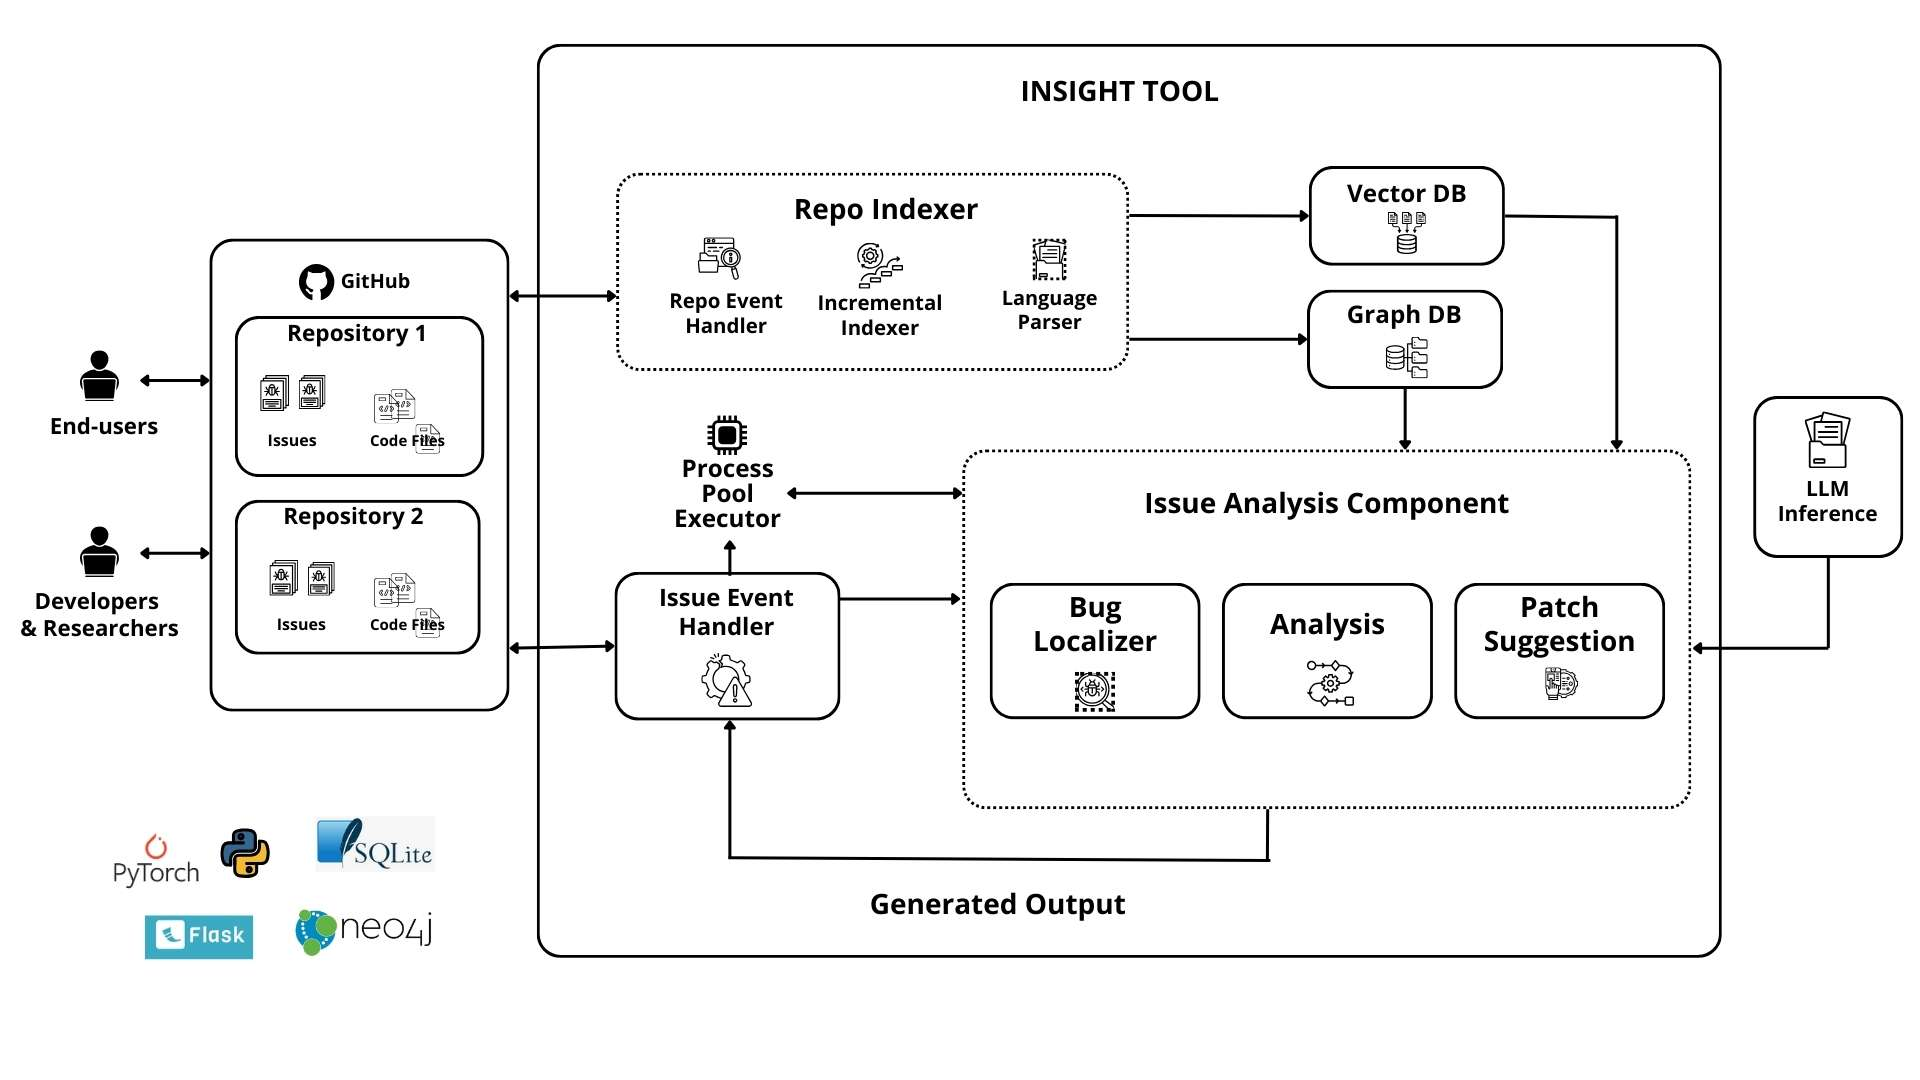
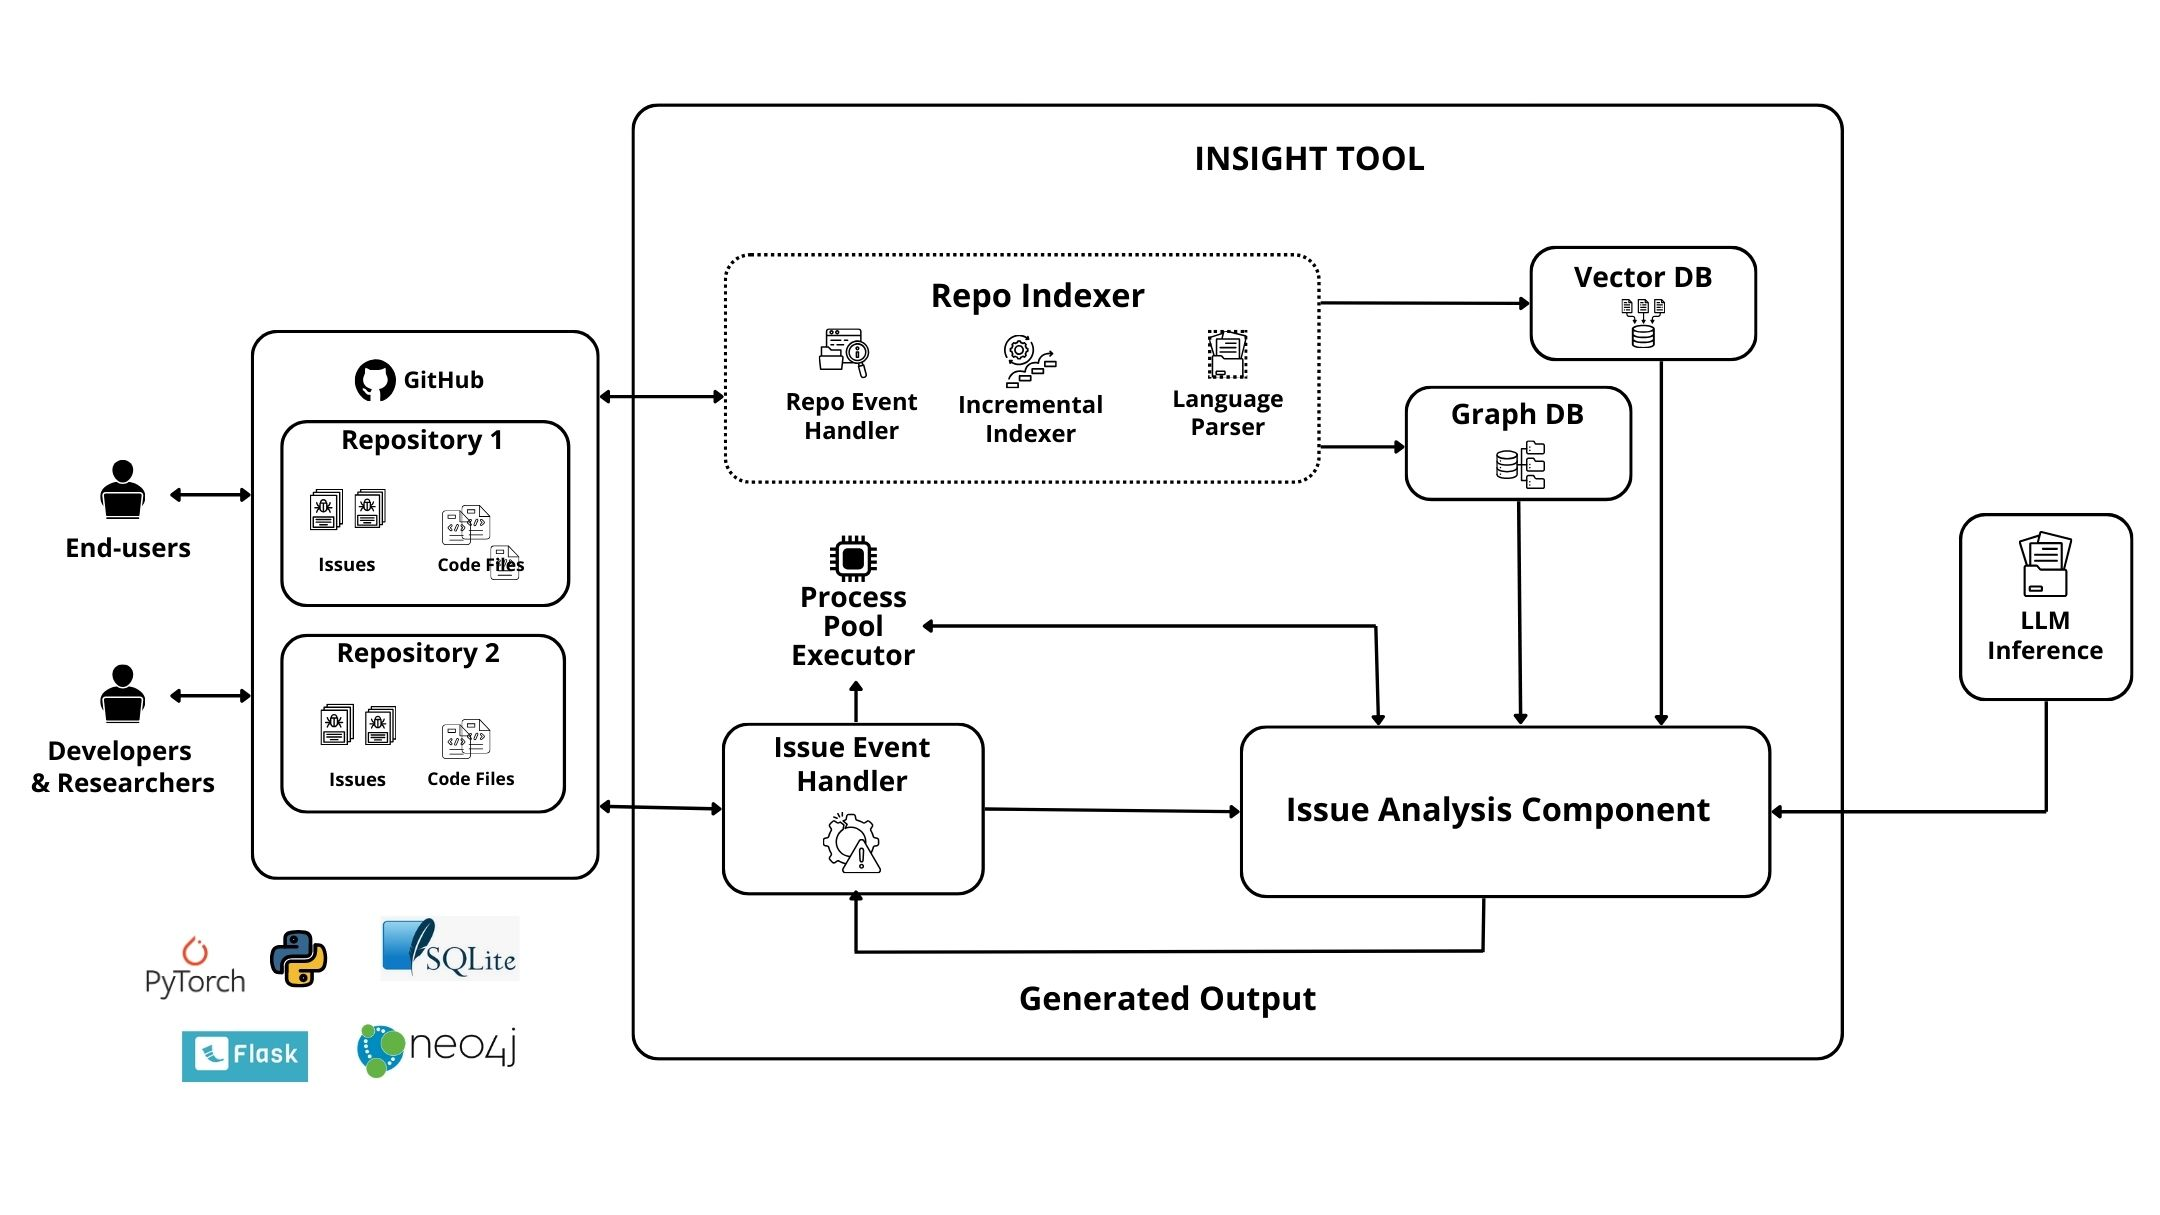
feat: add LangGraph-based bug localization agent with workflow orchestration and architecture diagram.

diff --git a/INSIGHT Tool/Feature_Components/Agent/agent.py b/INSIGHT Tool/Feature_Components/Agent/agent.py
@@ -517,7 +517,7 @@ class BugLocalizationAgent:
                 {
                     "candidate_index": 1, 
                     "confidence": "HIGH" | "MEDIUM" | "LOW",
-                    "reasoning": "Explanation of why this is the bug...",
+                    "reasoning": "Concise, single-sentence explanation of why this is the bug...",
                     "evidence": [
                         {"file": "path/to/file.py", "lines": [10, 11, 12]}
                     ]
@@ -530,6 +530,8 @@ class BugLocalizationAgent:
         2. Rank your findings by likelyhood/confidence.
         3. 'evidence' must cite specific lines from the provided snippets.
         4. Do NOT guess blindly, but be expansive in your selection to ensure the bug is caught.
+        5. Do NOT select the same function code location multiple times.
+        6. The 'reasoning' must be strictly about THIS candidate's relevance to the bug. Do not mention other candidates.
         """
         
         prompt = f"Issue:\n{issue_text}\n\nCandidates:\n{candidate_str}\n\nGenerate Bug Report JSON."
@@ -537,6 +539,8 @@ class BugLocalizationAgent:
         response = self.llm_service.get_response(prompt, system_message=system_msg, json_mode=True)
         
         selected = []
+        seen_functions = set() # Track (file_path, function_name) to prevent duplicates
+
         try:
             # Parse JSON
             start_idx = response.find('{')
@@ -554,6 +558,15 @@ class BugLocalizationAgent:
                     if 0 <= actual_idx < len(sliced_candidates):
                         cand = sliced_candidates[actual_idx]
                         
+                        # Deduplication check
+                        fpath = cand.get('file_path') or cand.get('path')
+                        fname = cand.get('name')
+                        unique_key = (fpath, fname)
+                        
+                        if unique_key in seen_functions:
+                            continue
+                        seen_functions.add(unique_key)
+
                         # Enrich candidate with RAG output
                         cand['analysis'] = loc.get('reasoning', '')
                         cand['confidence'] = loc.get('confidence', '')
